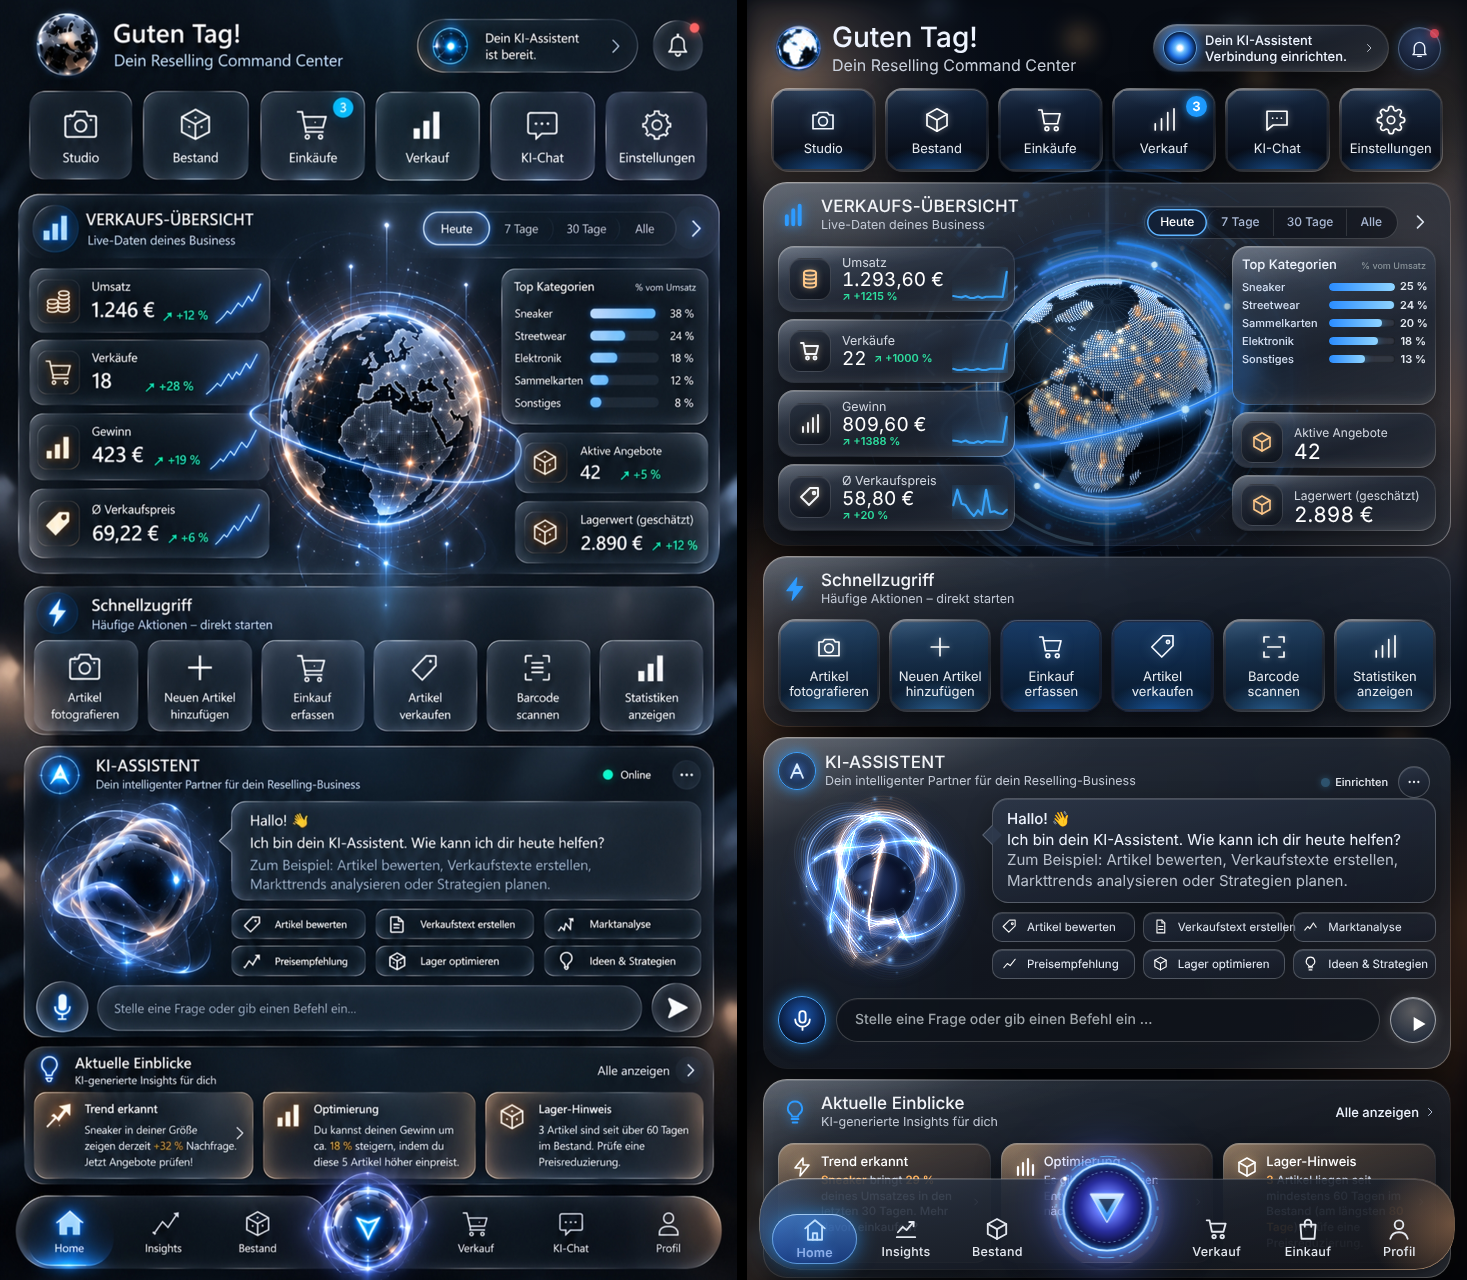
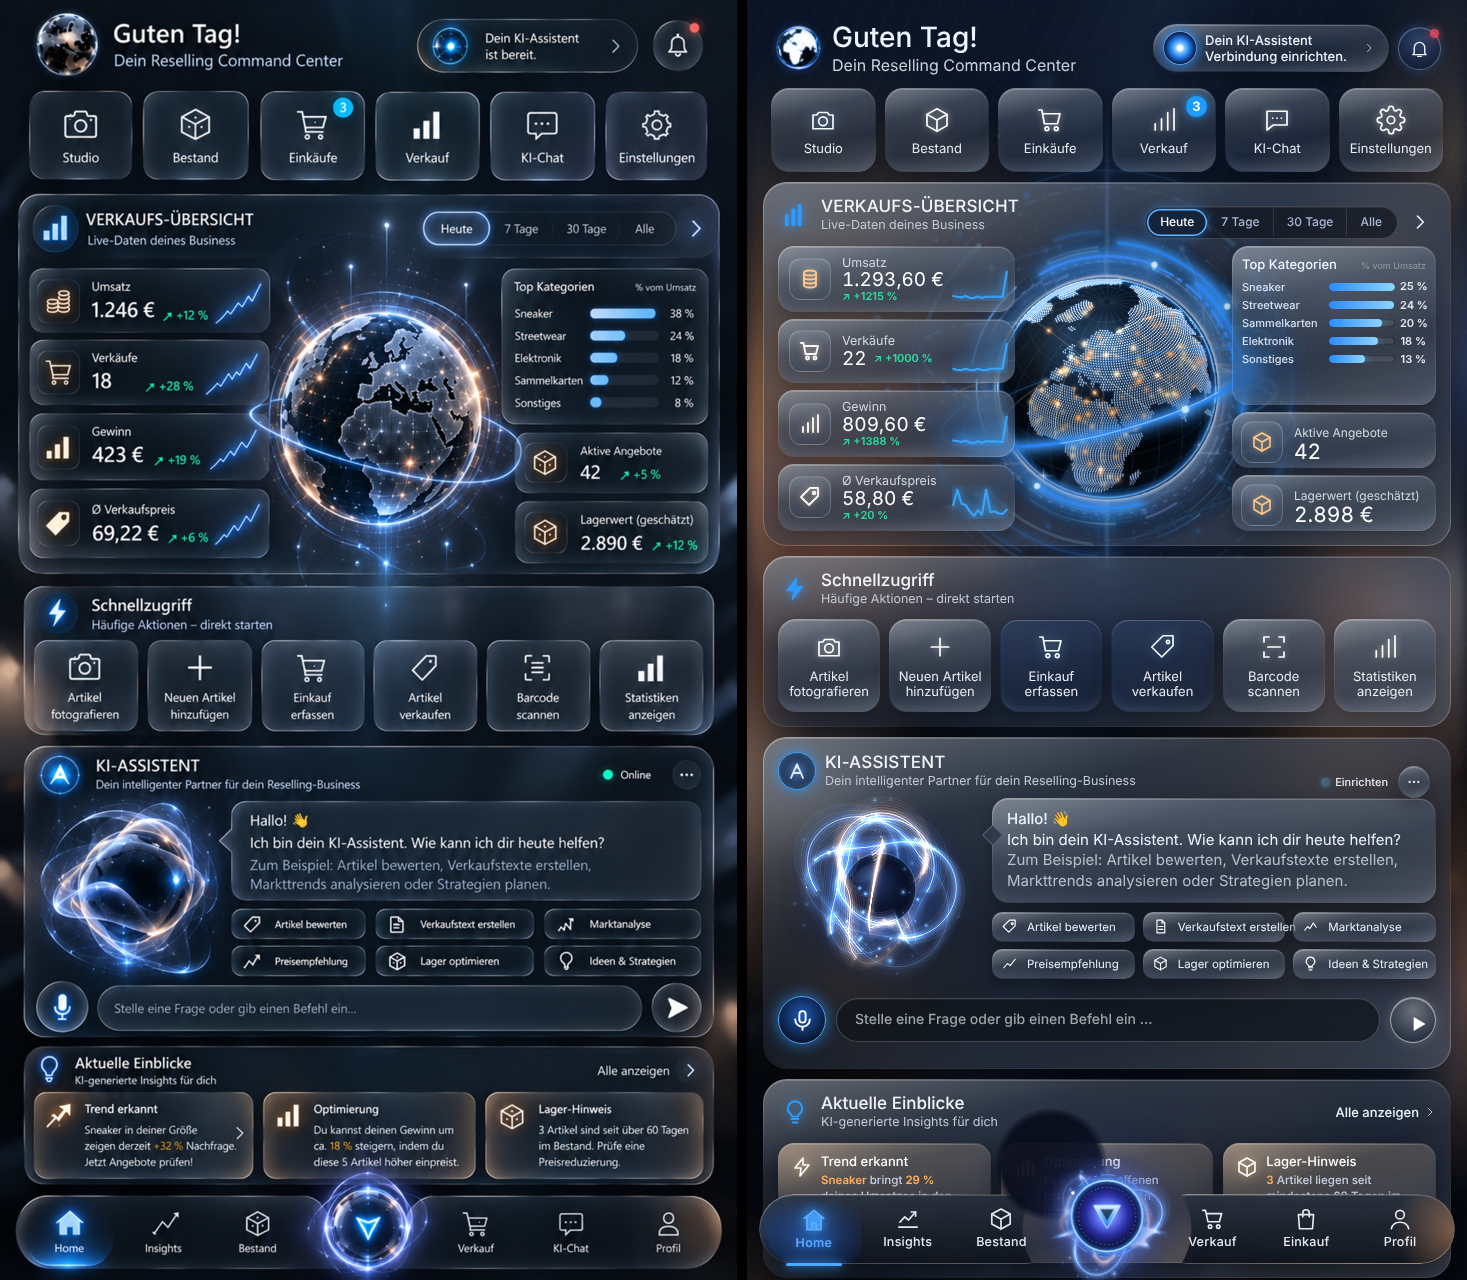
Helles einheitliches Glas, farbigerer Hintergrund, Menü nach Vorlage
- Alle Knöpfe, Kacheln und Karten in derselben hellen, leicht glasigen Farbe
- Hintergrund mit warmen und blauen Farbflächen, feiner Struktur und Lichtflecken
- Menü: zwei Glasflügel mit Aussparung, Plasma-Ring in der Mitte, aktive Seite
  mit blauem Leuchten, gefülltem Symbol und Lichtstrich

Claude-Session: https://claude.ai/code/session_0194bcZ5PbUBuV3hzmwdGD96

Changed region(s): [[0.4908, 0.0, 1.0, 1.0]]

diff --git a/public/theme.css b/public/theme.css
@@ -511,3 +511,108 @@ body:has(#home:not(.hidden)) main.wrap { padding-bottom:110px !important; }
 .cc-chat-top .v11-ph { padding-right:340px !important; }
 @media(max-width:999px) { .v15-bot-frame { height:150px; } .v15-bot-frame .cc-plasma { height:200px !important; margin:-25px -16px !important; } }
 #ccChatBot .cc-plasma { left:50% !important; width:130% !important; transform:translateX(-50%); margin-top:-15% !important; }
+
+/* ================= Runde 5: helles, einheitliches Glas wie in der Vorlage ================= */
+.cc-fill { display:none !important; }
+/* Alle Knöpfe/Kacheln/Karten: gleiche, leicht glasige Farbe */
+.v11-tile, .v11-q, .v11-m, .v11-cat, .v11-s2, .cc-side, .cc-chat .cc-q, .v11-pill,
+.v11-prompts button, .cc-pills .chat-chip, .v11-modes button, .cc-more, .v11-bubble {
+  border:1px solid transparent !important;
+  background:
+    linear-gradient(180deg, rgba(185,205,230,.16), rgba(120,140,170,.07) 55%, rgba(90,110,140,.10)) padding-box,
+    linear-gradient(180deg, rgba(20,30,46,.35), rgba(20,30,46,.35)) padding-box,
+    linear-gradient(165deg, rgba(255,255,255,.55), rgba(255,255,255,.14) 30%, rgba(255,255,255,.06) 65%, rgba(255,255,255,.28)) border-box !important;
+  box-shadow: inset 0 1px 0 rgba(255,255,255,.22), inset 0 -10px 18px -14px rgba(200,220,255,.35), 0 6px 18px rgba(0,0,0,.30) !important;
+  -webkit-backdrop-filter:blur(12px) saturate(1.15) !important; backdrop-filter:blur(12px) saturate(1.15) !important;
+}
+/* Große Abschnitte: dieselbe Glasfarbe, etwas dezenter */
+.v11-panel {
+  background:
+    linear-gradient(180deg, rgba(150,175,210,.12), rgba(80,100,135,.06) 60%, rgba(70,90,120,.08)) padding-box,
+    linear-gradient(180deg, rgba(14,22,36,.40), rgba(14,22,36,.48)) padding-box,
+    linear-gradient(165deg, rgba(255,255,255,.55), rgba(255,255,255,.14) 25%, rgba(255,255,255,.05) 60%, rgba(255,255,255,.30)) border-box !important;
+  box-shadow: inset 0 1px 0 rgba(255,255,255,.2), 0 16px 40px rgba(0,0,0,.45) !important;
+}
+/* Einblicke behalten den warmen Glanz der Vorlage, aber ebenfalls hell-glasig */
+.v11-card {
+  background:
+    radial-gradient(ellipse 80% 90% at 0% 0%, rgba(255,205,150,.20), transparent 70%) padding-box,
+    linear-gradient(180deg, rgba(200,180,160,.16), rgba(120,110,110,.08)) padding-box,
+    linear-gradient(180deg, rgba(24,26,36,.35), rgba(24,26,36,.35)) padding-box,
+    linear-gradient(165deg, rgba(255,235,210,.6), rgba(255,220,180,.15) 30%, rgba(255,255,255,.06) 65%, rgba(255,220,180,.35)) border-box !important;
+}
+.v11-m .mi, .v11-s2 .mi, .cc-q .ic { background:linear-gradient(180deg, rgba(185,205,230,.16), rgba(60,75,100,.25)) !important; border:1px solid rgba(255,255,255,.2) !important; }
+.v11-tile:hover, .v11-q:hover, .cc-chat .cc-q:hover, .v11-prompts button:hover { filter:brightness(1.18); }
+
+/* Hintergrund: mehr Farbe und Struktur hinter dem Glas */
+body:has(#home:not(.hidden)), body:has(#aiChat:not(.hidden)) {
+  background:
+    radial-gradient(ellipse 14% 22% at 0% 52%, rgba(255,180,130,.42), transparent 70%),
+    radial-gradient(ellipse 10% 14% at 2% 30%, rgba(255,200,150,.22), transparent 70%),
+    radial-gradient(ellipse 14% 20% at 100% 66%, rgba(255,170,120,.34), transparent 70%),
+    radial-gradient(ellipse 16% 16% at 100% 24%, rgba(110,150,255,.26), transparent 70%),
+    radial-gradient(ellipse 22% 16% at 0% 92%, rgba(255,190,140,.22), transparent 70%),
+    radial-gradient(ellipse 60% 26% at 50% 34%, rgba(60,120,230,.20), transparent 70%),
+    radial-gradient(ellipse 50% 20% at 50% 78%, rgba(50,90,200,.12), transparent 70%),
+    linear-gradient(100deg, transparent 30%, rgba(140,180,255,.06) 42%, transparent 52%, transparent 62%, rgba(255,190,140,.05) 72%, transparent 82%),
+    linear-gradient(180deg, #0b1424, #060a12 55%, #05080e) fixed !important;
+}
+body:has(#home:not(.hidden))::before { content:'' !important; display:block !important; position:fixed; inset:0; z-index:0; pointer-events:none; width:auto !important; background-image:none !important;
+  background:
+    repeating-linear-gradient(115deg, rgba(255,255,255,.018) 0 1px, transparent 1px 22px),
+    radial-gradient(circle at 50% 30%, rgba(80,140,255,.06), transparent 60%) !important; }
+.cc-bokeh { opacity:1 !important; filter:blur(8px) saturate(1.3) !important; }
+
+/* ================= Menüleiste wie in der Vorlage ================= */
+.lux-bottomnav { background:none !important; border:0 !important; box-shadow:none !important; padding:6px 8px calc(6px + env(safe-area-inset-bottom,0px)) !important;
+  grid-template-columns:repeat(3,minmax(0,1fr)) minmax(0,1.25fr) repeat(3,minmax(0,1fr)) !important; }
+.lux-bottomnav::before, .lux-bottomnav::after { content:'' !important; position:absolute; top:6px; bottom:6px; z-index:-1; pointer-events:none; border-radius:40px;
+  border:1px solid transparent; -webkit-mask-image:none !important; mask-image:none !important; }
+.lux-bottomnav::before { left:0; right:56.5%;
+  background:
+    radial-gradient(ellipse 30% 120% at 0% 50%, rgba(70,140,255,.18), transparent 70%) padding-box,
+    linear-gradient(180deg, rgba(185,205,230,.14), rgba(90,110,140,.06)) padding-box,
+    linear-gradient(180deg, rgba(12,18,30,.72), rgba(8,12,20,.82)) padding-box,
+    linear-gradient(165deg, rgba(255,255,255,.5), rgba(255,255,255,.1) 40%, rgba(255,255,255,.25)) border-box;
+  box-shadow:inset 0 1px 0 rgba(255,255,255,.18), 0 10px 28px rgba(0,0,0,.55);
+  -webkit-mask-image:radial-gradient(circle 66px at calc(100% + 26px) 50%, transparent 98%, #000 100%) !important; mask-image:radial-gradient(circle 66px at calc(100% + 26px) 50%, transparent 98%, #000 100%) !important; }
+.lux-bottomnav::after { right:0; left:56.5%; display:block !important; width:auto !important; height:auto !important; bottom:6px !important; box-shadow:0 10px 28px rgba(0,0,0,.55), inset 0 1px 0 rgba(255,255,255,.18) !important;
+  background:
+    radial-gradient(ellipse 28% 130% at 100% 50%, rgba(255,175,115,.45), transparent 70%) padding-box,
+    linear-gradient(180deg, rgba(185,205,230,.14), rgba(90,110,140,.06)) padding-box,
+    linear-gradient(180deg, rgba(12,18,30,.72), rgba(8,12,20,.82)) padding-box,
+    linear-gradient(165deg, rgba(255,255,255,.5), rgba(255,255,255,.1) 40%, rgba(255,220,180,.55)) border-box !important;
+  -webkit-mask-image:radial-gradient(circle 66px at -26px 50%, transparent 98%, #000 100%) !important; mask-image:radial-gradient(circle 66px at -26px 50%, transparent 98%, #000 100%) !important; }
+.lux-bottomnav button:not(.orb) { min-height:62px !important; color:#e8ecf2 !important; border-radius:0 !important; }
+.lux-bottomnav button:not(.orb) svg { stroke-width:1.5 !important; }
+.lux-bottomnav button:not(.orb)::before { inset:0 !important; border-radius:34px 18px 18px 34px !important; box-shadow:none !important;
+  background:radial-gradient(ellipse 80% 90% at 50% 60%, rgba(40,120,255,.42), rgba(30,80,200,.14) 60%, transparent 85%) !important; }
+.lux-bottomnav button:not(.orb).selected::after { display:block !important; content:'' !important; left:20% !important; right:20% !important; bottom:-2px !important; height:3px !important;
+  background:#4aa8ff !important; box-shadow:0 0 8px #3a9cff, 0 0 18px #3a9cff !important; border-radius:3px; }
+.lux-bottomnav button.selected { color:#5cb2ff !important; }
+.lux-bottomnav button.selected svg { color:#5cb2ff !important; fill:rgba(70,160,255,.85) !important; filter:drop-shadow(0 0 6px #3a9cff) drop-shadow(0 0 14px rgba(58,156,255,.6)) !important; }
+.lux-bottomnav button.selected span { color:#7cc2ff !important; text-shadow:0 0 8px rgba(58,156,255,.8) !important; }
+.lux-bottomnav .orb { margin-top:-26px !important; }
+.lux-bottomnav .orb svg.cc-navorb { width:120px !important; height:120px !important; }
+.lux-bottomnav::before, .lux-bottomnav::after { -webkit-backdrop-filter:blur(16px); backdrop-filter:blur(16px); }
+.lux-bottomnav::before { background:
+    radial-gradient(ellipse 30% 120% at 0% 50%, rgba(70,140,255,.20), transparent 70%) padding-box,
+    linear-gradient(180deg, rgba(185,205,230,.12), rgba(90,110,140,.05)) padding-box,
+    linear-gradient(180deg, rgba(16,22,34,.94), rgba(9,13,21,.97)) padding-box,
+    linear-gradient(165deg, rgba(255,255,255,.5), rgba(255,255,255,.1) 40%, rgba(255,255,255,.25)) border-box !important; }
+.lux-bottomnav::after { background:
+    radial-gradient(ellipse 28% 130% at 100% 50%, rgba(255,175,115,.42), transparent 70%) padding-box,
+    linear-gradient(180deg, rgba(185,205,230,.12), rgba(90,110,140,.05)) padding-box,
+    linear-gradient(180deg, rgba(16,22,34,.94), rgba(9,13,21,.97)) padding-box,
+    linear-gradient(165deg, rgba(255,255,255,.5), rgba(255,255,255,.1) 40%, rgba(255,220,180,.55)) border-box !important; }
+body:has(#home:not(.hidden)) main.wrap { padding-bottom:120px !important; }
+/* Menümitte: Plasma-Ring wie in der Vorlage */
+.lux-bottomnav .orb { position:relative; z-index:1; }
+.lux-bottomnav .orb::before { content:'' !important; position:absolute; left:50%; top:50%; width:126px; height:126px; transform:translate(-50%,-46%); border-radius:50%; z-index:-1;
+  background:radial-gradient(circle, rgba(10,14,28,.97) 0 60%, rgba(10,14,28,.6) 72%, transparent 78%); opacity:1 !important; inset:auto !important; }
+.lux-bottomnav .orb .cc-nav-plasma { position:absolute; left:50%; top:50%; width:170px; height:170px; transform:translate(-50%,-46%); pointer-events:none; }
+.lux-bottomnav .orb svg.cc-navorb { position:relative; width:104px !important; height:104px !important; }
+.cc-navorb > circle:first-of-type { opacity:.5; }
+.lux-bottomnav .orb::before { width:112px !important; height:112px !important; background:radial-gradient(circle, rgba(10,14,28,.95) 0 62%, transparent 72%) !important; }
+.lux-bottomnav .orb .cc-nav-plasma { width:138px !important; height:138px !important; }
+.lux-bottomnav .orb svg.cc-navorb { width:96px !important; height:96px !important; }

diff --git a/public/fx.js b/public/fx.js
@@ -769,7 +769,7 @@
 
   function setupNavCore() {
     var btn = doc.querySelector('#bottomnav .orb'); if (!btn || btn.querySelector('.cc-navorb')) return;
-    btn.innerHTML = ''; buildNavOrb(btn);
+    btn.innerHTML = ''; var pl = plasmaInto(btn, { seed: 19, scale: 1.05 }); pl.c.classList.add('cc-nav-plasma'); buildNavOrb(btn);
   }
 
   /* Farbige Lichter hinter dem Glas: weiche, langsam treibende Lichtflecken */

diff --git a/public/sw.js b/public/sw.js
@@ -1,4 +1,4 @@
-const CACHE='rv-studio-v19-blueglass-5';
+const CACHE='rv-studio-v19-blueglass-6';
 const FILES=['/','/index.html','/app.css','/dashboard.css','/fx.css','/ref.css','/theme.css','/app.js','/dashboard.js','/fx.js',
   '/vendor/jszip.min.js','/fonts/command-sans-regular.otf','/fonts/command-sans-bold.otf',
   '/rv-logo.jpg','/rv-ai-mascot.png','/rv-robot-premium.png','/rv-white.png',
